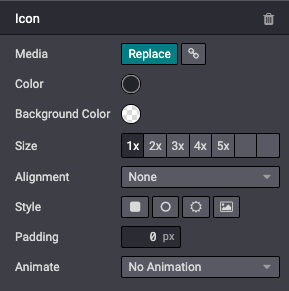
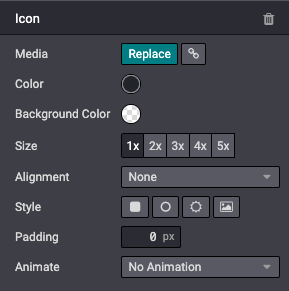
[IMP] NMI feedbacks 2

Changed region(s): [[0.8097, 0.433, 0.9965, 0.5567]]

diff --git a/extensions/odoo_theme/static/style.scss b/extensions/odoo_theme/static/style.scss
@@ -315,11 +315,6 @@ header {
                 content:'#{$i-doc-contribute}';
             }
 
-            /*
-            &.o_menu_designer > .o_toc_entry_wrapper > i:before{
-                content:'#{$i-doc-designer}';
-            }
-            */
             &.o_menu_designer > .o_toc_entry_wrapper > i:before{
                 content:'#{$i-themes}';
             }

diff --git a/extensions/odoo_theme/static/scss/_iconfont.scss b/extensions/odoo_theme/static/scss/_iconfont.scss
@@ -167,13 +167,6 @@
     content: $i-doc-dev;
   }
 }
-/*
-.i-doc-designer {
-  &:before {
-    content: $i-doc-designer;
-  }
-}
-*/
 .i-doc-designer {
   &:before {
     content: $i-themes;

diff --git a/content/developer/howtos/website_themes/building_blocks.rst b/content/developer/howtos/website_themes/building_blocks.rst
@@ -98,8 +98,8 @@ drop based on the template's name.
    Those attributes should be specifically added when a snippet is declared in a theme page.
 
 .. warning::
-   Do not add a `section` tag inside an other `section` tag. You can use inner content snippets
-   instead.
+   Avoid adding a `section` tag inside an other `section` tag: this will trigger twice the Website
+   Builder's options. You can use inner content snippets instead.
 
 Columns
 -------
@@ -427,8 +427,8 @@ Blog posts
 .. code-block:: xml
    :caption: ``/website_airproof/views/snippets/options.xml``
 
-   <template id="dynamic_filter_template_blog_post_airproof" name="Airproof layout">
-       <div t-foreach="records" t-as="data" class="s_blog_posts_post w-100">
+   <template id="dynamic_filter_template_blog_post_airproof" name="...">
+       <div t-foreach="records" t-as="data" class="s_blog_posts_post">
            <t t-set="record" t-value="data['_record']"/>
            <!-- Content -->
        </div>
@@ -452,7 +452,7 @@ Products
 .. code-block:: xml
    :caption: ``/website_airproof/views/snippets/options.xml``
 
-   <template id="dynamic_filter_template_product_product_airproof" name="Airproof layout">
+   <template id="dynamic_filter_template_product_product_airproof" name="...">
        <t t-foreach="records" t-as="data" data-number-of-elements="4" data-number-of-elements-sm="1" data-number-of-elements-fetch="8">
            <t t-set="record" t-value="data['_record']"/>
            <!-- Content -->
@@ -483,8 +483,8 @@ Events
 .. code-block:: xml
    :caption: ``/website_airproof/views/snippets/options.xml``
 
-   <template id="dynamic_filter_template_event_event_airproof" name="Airproof Layout" priority="5">
-       <div t-foreach="records" t-as="data" class="pb32 w-100 s_events_event">
+   <template id="dynamic_filter_template_event_event_airproof" name="...">
+       <div t-foreach="records" t-as="data" class="s_events_event">
            <t t-set="record" t-value="data['_record']._set_tz_context()"/>
            <!-- Content -->
        </div>
@@ -501,5 +501,3 @@ Events
      - ID of the template. Has to start with `dynamic_filter_template_event_event_`
    * - name
      - Human-readable name of the template
-   * - priority
-     - Priority of order in the Website Builder's option

diff --git a/content/developer/howtos/website_themes/shapes.rst b/content/developer/howtos/website_themes/shapes.rst
@@ -165,19 +165,19 @@ Define the styles of your shape.
      - Description
    * - File location
      - `hexagons/01` corresponds to the location of your file in the `shapes` folder.
-   * - Position
-     - `position` defines the position of your shape.
-   * - Size
-     - `size` defines the size of your shape.
-   * - Colors
-     - `colors` defines the color c* you want it to have (this will override the color you specified
-       in your SVG).
-   * - Repeat-x
-     - `repeat-x` defines if the shape is repeated horizontally. This key is optional and only needs
-       to be defined if set to `true`.
-   * - Repeat-y
-     - `repeat-y` defines if the shape is repeated vertically. This key is optional and only needs
-       to be defined if set to `true`.
+   * - position
+     - Defines the position of your shape.
+   * - size
+     - Defines the size of your shape.
+   * - colors
+     - Defines the color c* you want it to have (this will override the color you specified in your
+       SVG).
+   * - repeat-x
+     - Defines if the shape is repeated horizontally. This key is optional and only needs to be
+       defined if set to `true`.
+   * - repeat-y
+     - Defines if the shape is repeated vertically. This key is optional and only needs to be
+       defined if set to `true`.
 
 Lastly, add your shape to the list of shapes available on the Website Builder.
 
